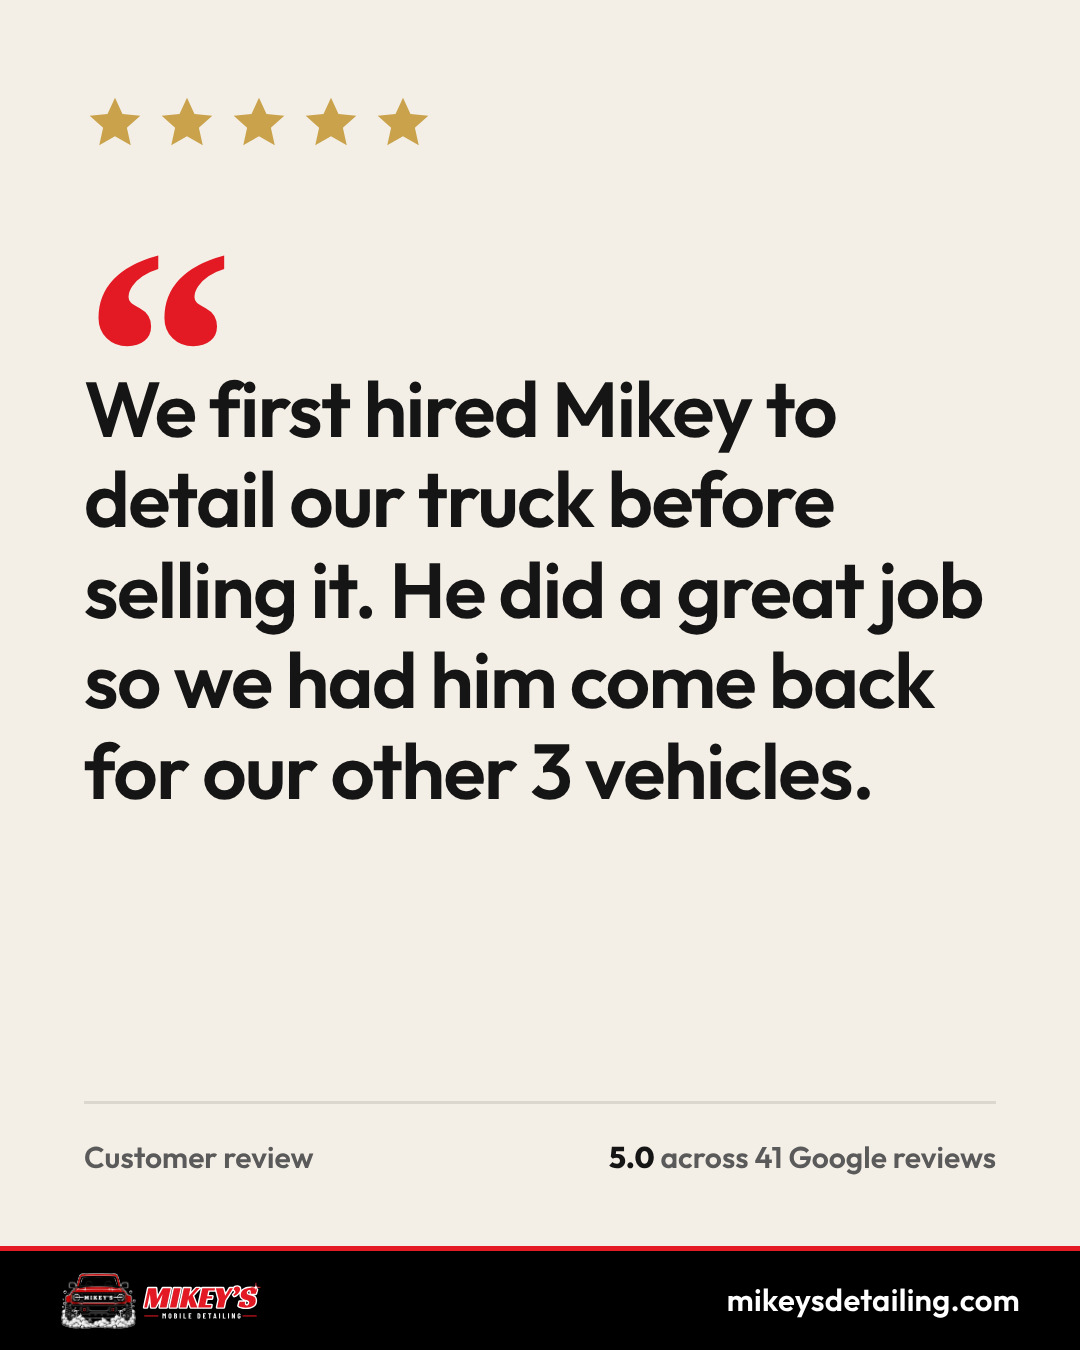
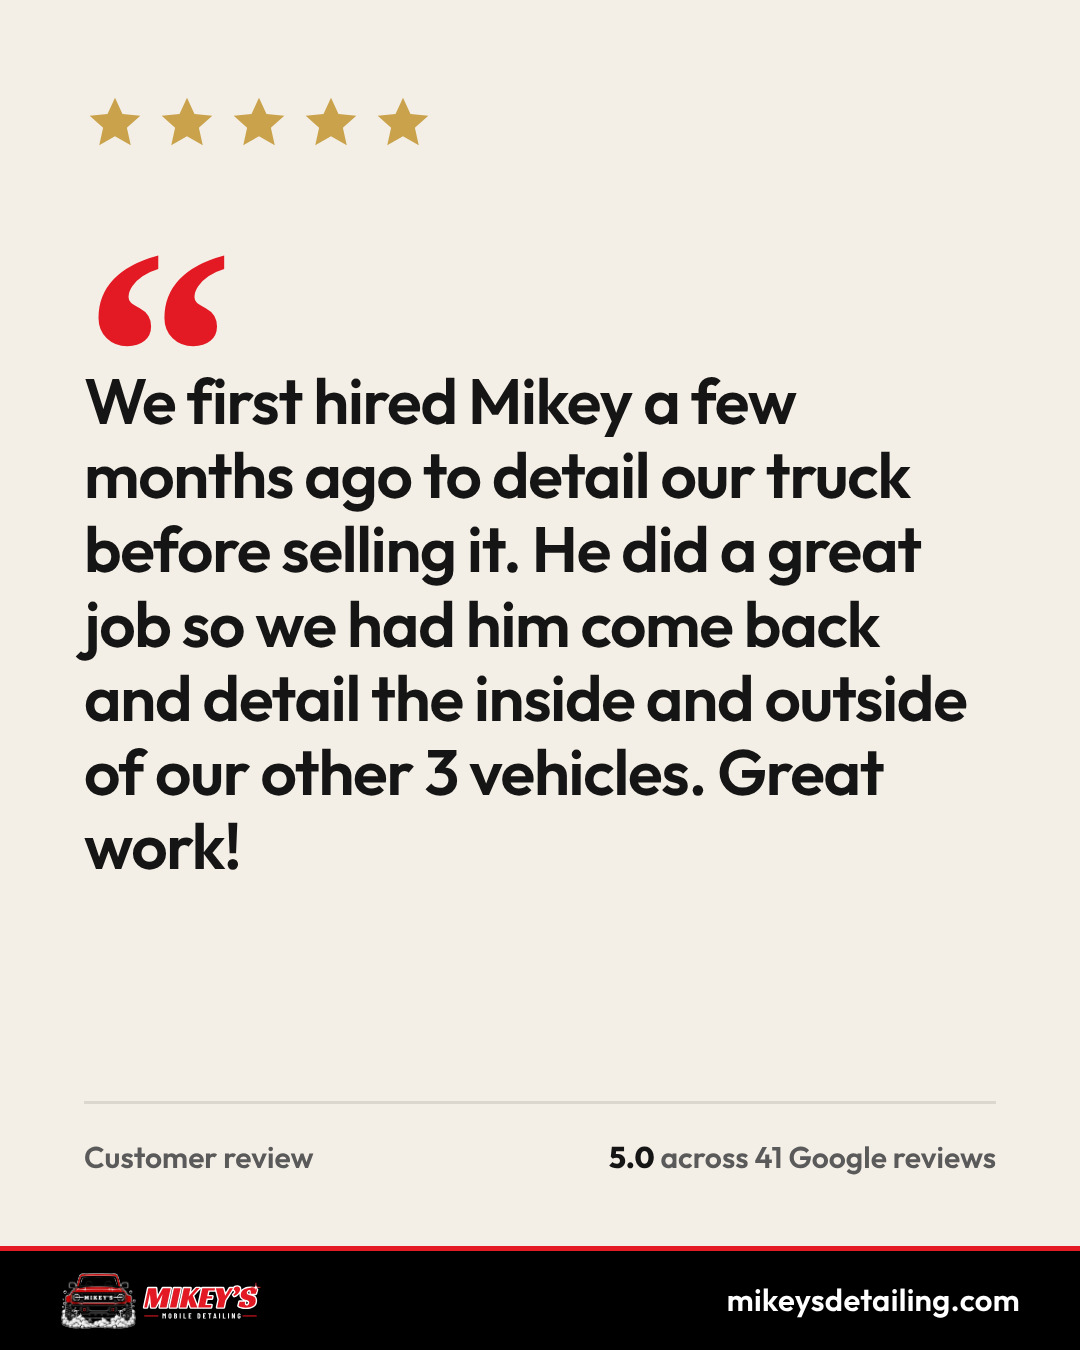
Social B13: Marissa J.'s review word for word
The post had dropped "a few months ago" and changed "come back and detail the
inside and outside of our other 3 vehicles" to "come back for our other 3
vehicles", and left off "Great work!". Now it's her review as written.
Re-rendered B13 and rebuilt the queue. (B12 is the "Matt K." quote, still
not approved and waiting on Mikey.)

Claude-Session: https://claude.ai/code/session_01VBLgm4HvaZKimf1NKXMnzA

Changed region(s): [[0.0611, 0.28, 0.9167, 0.6533]]

diff --git a/social/CAPTIONS.md b/social/CAPTIONS.md
@@ -1332,7 +1332,7 @@ Exact price for your car in 60 seconds: mikeysdetailing.com
 **Instagram**
 
 ```
-"We first hired Mikey to detail our truck before selling it. He did a great job so we had him come back for our other 3 vehicles."
+"We first hired Mikey a few months ago to detail our truck before selling it. He did a great job so we had him come back and detail the inside and outside of our other 3 vehicles. Great work!"
 
 Selling a car? A detail before you list it is money well spent. A clean car photographs better, shows better, and tells a buyer it was looked after.
 
@@ -1344,7 +1344,7 @@ Exact price for your car in 60 seconds, link in bio.
 **Facebook**
 
 ```
-"We first hired Mikey to detail our truck before selling it. He did a great job so we had him come back for our other 3 vehicles."
+"We first hired Mikey a few months ago to detail our truck before selling it. He did a great job so we had him come back and detail the inside and outside of our other 3 vehicles. Great work!"
 
 Selling a car? A detail before you list it is money well spent. A clean car photographs better, shows better, and tells a buyer it was looked after.
 
@@ -1353,7 +1353,7 @@ Exact price for your car in 60 seconds: mikeysdetailing.com
 
 **Alt text** (Instagram: Advanced settings → Accessibility)
 
-> Five-star customer review: We first hired Mikey to detail our truck before selling it. He did a great job so we had him come back for our other 3 vehicles.
+> Five-star customer review: We first hired Mikey a few months ago to detail our truck before selling it. He did a great job so we had him come back and detail the inside and outside of our other 3 vehicles. Great work!
 
 ### B14 · Driveway or garage
 
